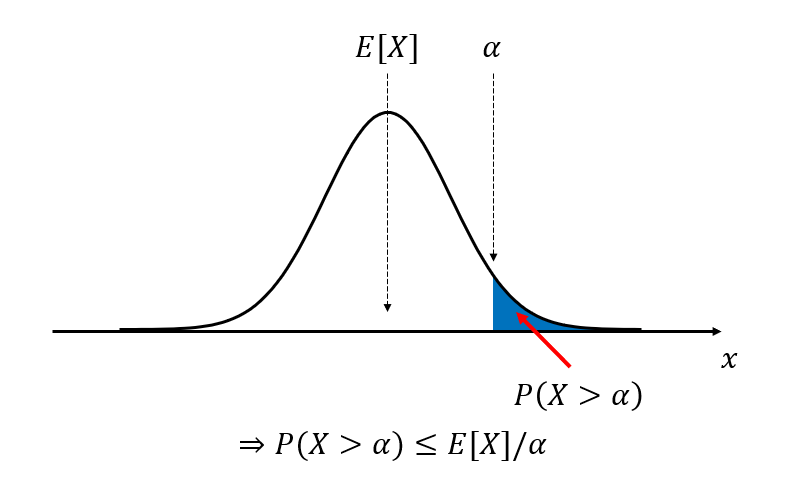
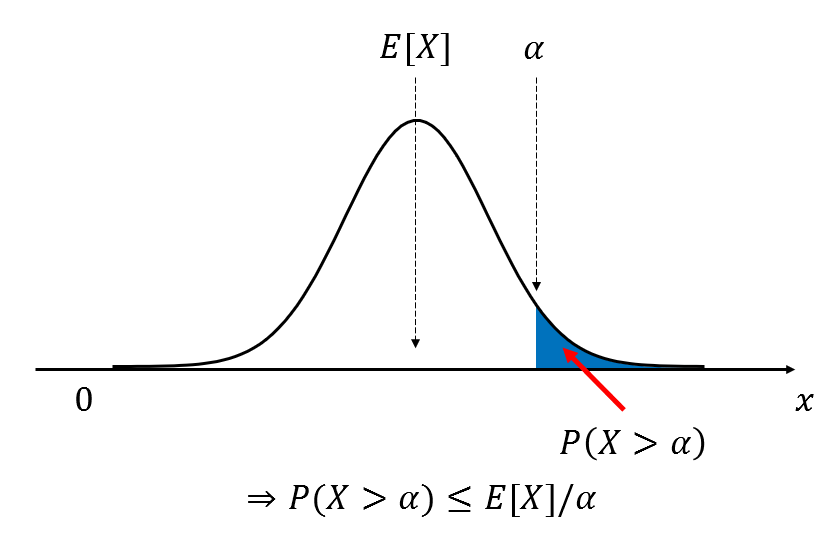
-

diff --git a/pics/2022-09-12-Markov_Chebyshev_Inequality/pics.m b/pics/2022-09-12-Markov_Chebyshev_Inequality/pics.m
@@ -1,5 +1,7 @@
 clear; close all; clc;
 
+
+%% pic1
 my_norm = @(X, mu, sigma) 1/(sigma*sqrt(2*pi)) * exp(-(X-mu).^2)/(2*sigma^2);
 
 x = linspace(0,6,100);
@@ -10,3 +12,21 @@ plot(x, y,'color','k','linewidth',2)
 hold on;
 area(x(70:end), y(70:end),'facecolor',lines(1),'edgecolor','none')
 set(gca,'visible','off')
+
+%% pic2
+x = linspace(-1,7,100);
+y1 = my_norm(x, 2.8, 6.8);
+y2 = my_norm(x, 5, 7);
+y = y1+y2;
+
+
+
+figure;
+plot(x, y,'color','k','linewidth',2)
+hold on;
+
+area(x(1:45), y(1:45),'facecolor',lines(1),'edgecolor','none')
+area(x(80:end), y(80:end),'facecolor',lines(1),'edgecolor','none')
+set(gca,'visible','off')
+
+line(sum(x.*y)/sum(y) * ones(1,2), ylim)

diff --git a/_posts/2022-09-12-Markov_Chebyshev_Inequality.md b/_posts/2022-09-12-Markov_Chebyshev_Inequality.md
@@ -8,17 +8,63 @@ key: 20220912
 tags: 통계학
 ---
 
+# 마르코프 부등식 (Markov Inequality)
+
 마르코프 부등식은 음수가 아닌 랜덤 변수에 대해 성립하는 부등식이다. 마르코프 부등식의 정의부터 보면 다음과 같다.
 
 $X$가 음수가 아닌 값을 가지는 랜덤 변수라고 했을때, $E[X]<\alpha$를 만족하는 임의의 상수 $\alpha$에 다음이 성립한다.
 
 $$P(X\gt \alpha) \leq E[X]/\alpha$$
 
-위 식의 의미를 간단히 살펴보자면 
+위 식의 의미를 간단히 살펴보기 위해 아래의 그림을 보도록 하자.
 
 
 <p align = "center">
   <img width = "600" src = "https://raw.githubusercontent.com/angeloyeo/angeloyeo.github.io/master/pics/2022-09-12-Markov_Chebyshev_Inequality/pic1.png">
   <br>
-  그림 1
+  그림 1. 마르코프 부등식이 의미하는 것은 전체 데이터 분포에서 기댓값을 기준으로 랜덤변수 $x$가 어떤 극값 $\alpha$ 보다 클 확률에 관한 것이다.
+</p>
+
+그림 1을 보면 어떤 랜덤 변수 $X$에 대한 pdf가 그려져 있는 것을 알 수 있다. 여기서 $X$는 음수가 아닌 값이라는 점을 강조하고자 가로축 왼쪽에 0을 표시했다. 또, 기댓값은 임의로 분포 중앙으로 설정하였으며 $P(x\gt \alpha)$는 파란색 영역으로 표시되어 있다. 여기서 제약 사항 중 하나는 $\alpha$는 $E[X]$보다는 큰 값이여야 한다는 점이다. 즉, right tail에서 볼 수 있는 extreme value $\alpha$에 관한 부등식이라고 할 수 있다. 
+
+정리하자면 마르코프 부등식은 음수가 아닌 랜덤 변수에 대해 기댓값을 기준으로 $X$가 극값 $\alpha$ 보다 클 확률에 관한 정리(theorem)라고 할 수 있다.
+
+증명은 아주 간단하다. $X$에 관한 pdf가 $f_X(x)$라고 하면 이의 기댓값은 다음과 같다.
+
+$$E[X]=\int_x x f_X(x)dx$$
+
+위 적분에 대한 적분 범위를 $\alpha$를 기준으로 나눠 다음과 같이 쓸 수 있다.
+
+$$\Rightarrow \int_{0\leq x \leq \alpha}xf_X(x)dx + \int_{x\gt \alpha}xf_X(x)dx$$
+
+여기서 $x$의 값은 항상 음수가 아닌 값이므로 위 식의 왼쪽 항은 항상 양수이다. 따라서, 아래와 같은 관계가 성립한다.
+
+$$\Rightarrow \int_{0\leq x \leq \alpha}xf_X(x)dx + \int_{x\gt \alpha}xf_X(x)dx \geq \int_{x\gt \alpha}xf_X(x)dx$$
+
+또한, 위 식의 우변의 값에서 $x\gt \alpha$이므로 다음이 성립한다.
+
+$$\Rightarrow \int_{x\gt \alpha}xf_X(x)dx\geq \int_{x\gt \alpha}\alpha f_X(x)dx % 식 (5)$$
+
+따라서, 결론적으로 식 (2)와 식 (5)만을 가져오면,
+
+$$\Rightarrow E[X]\geq \int_{x\gt\alpha} \alpha f_X(x)dx % 식 (6)$$
+
+이며, pdf와 확률의 정의에 따라 위 식은 다음과 같이 쓸 수도 있다.
+
+$$식(6)\Rightarrow E[x]\geq \alpha P(X\gt \alpha) % 식 (7)$$
+
+여기서 위 식을 정리하면 식 (1)을 얻을 수 있다.
+
+# 체비쇼프 부등식 (Chebyshev Inequality)
+
+체비쇼프 부등식은 다음과 같다. 임의의 랜덤 변수 $X$와 임의의 상수 $\alpha$에 대하여 다음이 성립한다.
+
+$$P(\left|X-E[X]\right|\gt\alpha)\leq Var[X]/\alpha^2$$
+
+체비쇼프 부등식은 마르코프 부등식과 다르게 $X$와 $\alpha$에 대한 제약 조건이 없으나 절대값 부호에서 볼 수 있듯이 양측 극값 $\alpha$에 대한 부등식이다.
+
+<p align = "center">
+  <img width = "600" src = "https://raw.githubusercontent.com/angeloyeo/angeloyeo.github.io/master/pics/2022-09-12-Markov_Chebyshev_Inequality/pic2.png">
+  <br>
+  그림 2. 체비쇼프 부등식이 의미하는 것은 전체 데이터 분포에서 기댓값을 기준으로 랜덤변수 $x$가 어떤 양쪽 극값 $\alpha\pm E[X]$ 보다 크거나 같을 확률에 관한 것이다.
 </p>
